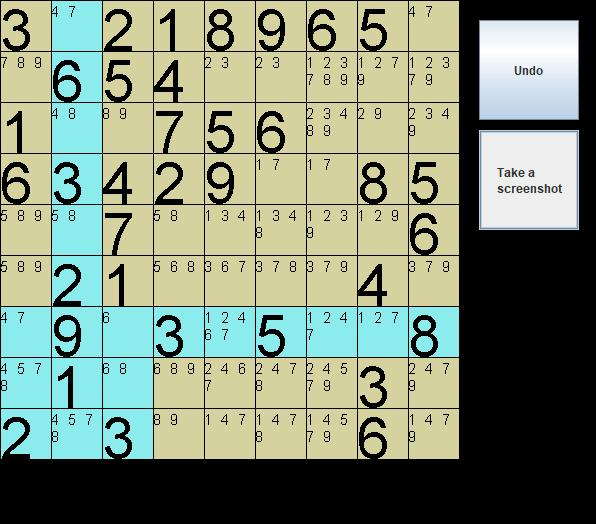
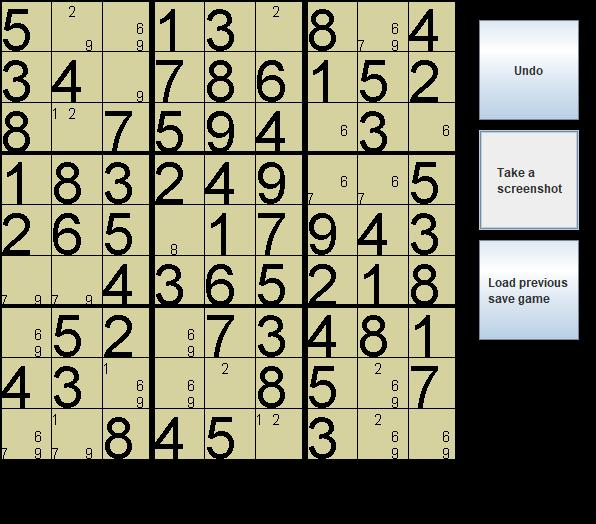
made pos-removal smarter, see Board's removeInvisible()

diff --git a/for-fun/src/sudoku/Board.java b/for-fun/src/sudoku/Board.java
@@ -5,6 +5,7 @@ import java.awt.Graphics;
 
 // for arrays that can change size
 import java.util.ArrayList;
+import java.util.HashMap;
 
 // for dealing with files
 import java.io.File;
@@ -58,7 +59,7 @@ public class Board {
 	/**
 	 * the # of rows (of groups, and within groups)
 	 */
-	public static final int ROWS = 2;
+	public static final int ROWS = 3;
 	/**
 	 * the # of columns (of groups, and within groups)
 	 */
@@ -129,7 +130,10 @@ public class Board {
 	 */
 	public boolean setNum(int num) {
 		// use general setNum on active
-		return setNum(active, num);
+		boolean set = setNum(active, num);
+		// deal with invisibles
+		removeInvisible();
+		return set;
 	}
 
 	/**
@@ -164,7 +168,7 @@ public class Board {
 	 */
 	private boolean setNum(Tile tile, int num) {
 		// unsuccessful if tile is null or cannot be set
-		if (tile == null || !tile.couldBe(num)) return false;
+		if (tile == null || !tile.couldBe(num) || num <= 0 || num > SIZE) return false;
 		
 		// set the number, and record the move
 		tile.setNum(num);
@@ -195,6 +199,8 @@ public class Board {
 		// similar loop for group
 		for (Tile other : groups[getGroup(row, col)])
 			other.removePos(pos);
+		// add center back
+		center.addPos(pos);
 	}
 	
 	/**
@@ -222,6 +228,9 @@ public class Board {
 		for (Tile other : groups[getGroup(row, col)])
 			if (!other.hasNum() && !canSee(other, pos))
 				other.addPos(pos);
+		
+		// deal with inivisibles
+		removeInvisible();
 	}
 	
 	/**
@@ -287,9 +296,91 @@ public class Board {
 	}
 	
 	/**
+	 * Remove "invisible" impossibilities
+	 * <br>
+	 * If any group (row, column, box) has n cells which share the same exact n possibilities,
+	 * then no other cells in that group can have any of those n possibilities EVEN THOUGH
+	 * it is not known which of the n cells has each possibility
+	 */
+	private void removeInvisible() {
+		// map possibilities to Tiles
+		HashMap<HashableArray, ArrayList<Tile>> pos = new HashMap<HashableArray, ArrayList<Tile>>();
+		// no Tiles have been removed yet
+		boolean removed = false;
+		
+		// check each group individually
+		for (Tile[] group : groups) {
+			// for each Tile which has possibilities (plural)
+			for (Tile tile : group) if (!tile.hasNum()) {
+				// wrap possibilities
+				HashableArray curPos = new HashableArray(tile.getAllPos());
+				// save in map
+				pos.putIfAbsent(curPos, new ArrayList<Tile>());
+				pos.get(curPos).add(tile);
+			}
+			
+			// for each group of possibilities
+			for (HashableArray posse : pos.keySet()) {
+				// if there are n Tiles sharing n possibilities
+				if (posse.length() == pos.get(posse).size()) 
+					// remove all n possibilities from all other Tiles in group
+					for (Tile tile : group) if (!pos.get(posse).contains(tile)) 
+						for (int p : posse.getArr()) if (tile.removePos(p))
+							// note if a removal occurred ^^^
+							removed = true;
+			}
+			// clean up
+			pos.clear();
+		}
+		
+		// same for rows
+		for (Tile[] row : rows) {
+			for (Tile tile : row) if (!tile.hasNum()) {
+				HashableArray curPos = new HashableArray(tile.getAllPos());
+				pos.putIfAbsent(curPos, new ArrayList<Tile>());
+				pos.get(curPos).add(tile);
+			}
+			
+			for (HashableArray posse : pos.keySet())
+				if (posse.length() == pos.get(posse).size()) 
+					for (Tile tile : row) if (!pos.get(posse).contains(tile)) 
+						for (int p : posse.getArr()) if (tile.removePos(p))
+							removed = true;
+			
+			pos.clear();
+		}
+		
+		// same for columns
+		for (int col = 0; col < SIZE; ++col) {
+			for (int row = 0; row < SIZE; ++row) {
+				Tile tile = rows[row][col];
+				if (!tile.hasNum()) {
+					HashableArray curPos = new HashableArray(tile.getAllPos());
+					pos.putIfAbsent(curPos, new ArrayList<Tile>());
+					pos.get(curPos).add(tile);
+				}
+			}
+			for (HashableArray posse : pos.keySet())
+				if (posse.length() == pos.get(posse).size()) 
+					for (int row = 0; row < SIZE; ++row) {
+						Tile tile = rows[row][col];
+						if (!pos.get(posse).contains(tile)) 
+						for (int p : posse.getArr()) if (tile.removePos(p))
+							removed = true;
+					}
+			
+			pos.clear();
+		}
+		
+		// if any possibilities were removed, recalculate
+		if (removed) removeInvisible();
+	}
+	
+	
+	/**
 	 * Saves the current state to a file
 	 */
-	public void save() {
+ 	public void save() {
 		// point a writer at the save-file
 		try(BufferedWriter writer = 
 					new BufferedWriter(new FileWriter(saveFile))) {
@@ -345,9 +436,66 @@ public class Board {
 		finally {
 			// clear all "moves"
 			changed.clear();
+			// remove "invisible" impossibles
+			removeInvisible();
 			// reset moves file
 			try {moveWriter = new BufferedWriter(new FileWriter(moveFile));}
 			catch (IOException e) {}
 		}
+	}
+	
+	/**
+	 * An array which is actually hashable - [3] == [3], even if different instances
+	 * @author faith
+	 */
+	private class HashableArray {
+		/**
+		 * the wrapped array
+		 */
+		private int[] arr;
+		/**
+		 * the array represented as a String
+		 */
+		private String arrString;
+		
+		/**
+		 * Wraps an array and calculates its String
+		 * @param arr the array to wrap
+		 */
+		public HashableArray(int[] arr) {
+			// clone array so that outside changes will not affect inside
+			this.arr = arr.clone();
+			if (arr.length == 0) arrString = "[]";
+			else {
+				// builds up, essentially, Arrays.toString()
+				arrString = "[";
+				for (int num : arr)
+					arrString += num + ", ";
+				
+				arrString =  arrString.substring(0, arrString.length() - 2) + "]";
+			}
+		}
+		
+		/**
+		 * @return a clone of wrapped array
+		 */
+		public int[] getArr() {return arr.clone();}
+		
+		public int length() {return arr.length;}
+		
+		public boolean equals(Object obj) {
+			if (obj instanceof HashableArray)
+				// inner-array strings are easier to check than arrays
+				return toString().equals(((HashableArray) obj).toString());
+			
+			return false;
+		}
+		
+		public String toString() {return arrString;}
+		
+		/**
+		 * Uses the array-string's hashcode
+		 */
+		public int hashCode() {return arrString.hashCode();}
 	}
 }

diff --git a/for-fun/src/sudoku/Tile.java b/for-fun/src/sudoku/Tile.java
@@ -118,6 +118,22 @@ public class Tile {
 	public int getCol() {return col;}
 	
 	/**
+	 * @return an array of possible values
+	 */
+	public int[] getAllPos() {
+		// count the number of possibles
+		int count = 0;
+		for (boolean pos : canBe)
+			if (pos) ++count;
+		// copy int-values into new array
+		int[] allPos = new int[count];
+		int addIndex = 0;
+		for (int i = 0; i < canBe.length; ++i)
+			if (canBe[i]) allPos[addIndex++] = (i + 1);
+		return allPos;
+	}
+	
+	/**
 	 * @param whether this Tile should be highlighted
 	 */
 	public void setHighlight(boolean highlight) {this.highlight = highlight;}
@@ -141,7 +157,13 @@ public class Tile {
 	/**
 	 * @param num the number to set as impossible
 	 */
-	public void removePos(int num) {canBe[num - 1] = false;}
+	public boolean removePos(int num) {
+		if (canBe[num - 1]) {
+			canBe[num - 1] = false;
+			return true;
+		}
+		return false;
+	}
 	
 	/**
 	 * Draws the Tile in its current state
